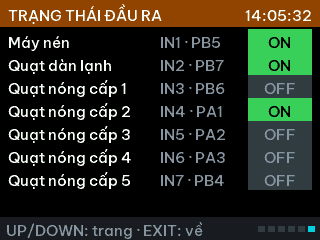
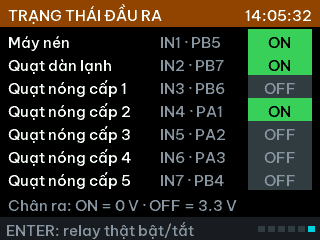
feat(sim): giả lập mặc định đóng relay thật để đo điện áp chân ra
- "Relay thật" mặc định Bật: chân GPIO + relay chạy theo bộ điều khiển khi giả lập
- trang 6: ENTER đảo Relay thật khi đang giả lập (UI_CMD_SIM_RELAY)
- trang 6 ghi chú mức chân ra: ON = 0 V, OFF = 3.3 V (relay kích mức thấp)

Claude-Session: https://claude.ai/code/session_01Q4RsSUfkgXaCjxshzdnzJP

Changed region(s): [[0.0, 0.9333, 0.6562, 1.0], [0.0312, 0.8167, 0.4375, 0.9042], [0.4688, 0.8167, 0.75, 0.875]]

diff --git a/App/app.c b/App/app.c
@@ -41,7 +41,8 @@ static bool           s_prev_finished;
  *  - Chỉnh tay: người dùng đặt nhiệt độ/độ ẩm trong danh sách GIẢ LẬP
  *  - Tua nhanh: đồng hồ của bộ điều khiển chạy x1/x10/x60/x300 (quạt 5 cấp vẫn theo thời gian thật)
  *  - Tạo lỗi : mất cảm biến nhiệt / ẩm, áp suất cao – để thử bảo vệ
- *  - Relay thật: mặc định TẮT – relay không đóng khi giả lập, màn hình vẫn hiện trạng thái */
+ *  - Relay thật: mặc định BẬT – chân ra + relay đóng theo bộ điều khiển để đo điện áp thực tế;
+ *                 chuyển Tắt (danh sách GIẢ LẬP hoặc ENTER ở trang 6) để chỉ hiện trên màn hình */
 enum { SIM_OFF = 0, SIM_MODEL, SIM_MANUAL };
 enum { SIMF_NONE = 0, SIMF_TEMP, SIMF_HUM, SIMF_PRESS };
 static const char *const s_sim_mode_ch[]  = { "Tắt", "Mô hình", "Chỉnh tay" };
@@ -55,7 +56,7 @@ static struct {
     sim_plant_t plant;
     float       man_temp, man_hum;
     char        text[40];
-} s_sim;
+} s_sim = { .relay = 1 };
 
 static uint32_t s_vclock, s_last_tick;     /* đồng hồ của bộ điều khiển (có thể tua nhanh) */
 
@@ -181,6 +182,13 @@ static bool on_ui_cmd(const ui_cmd_t *cmd)
     case UI_CMD_RESET_FAULT:
         DryerCtrl_Command(&s_ctrl, DRYER_CMD_RESET_FAULT);
         UI_Message("Đã xoá lỗi");
+        return true;
+
+    case UI_CMD_SIM_RELAY:
+        if (s_sim.mode == SIM_OFF) return false;
+        s_sim.relay = !s_sim.relay;
+        UI_Message(s_sim.relay ? "Giả lập: relay thật BẬT" : "Giả lập: relay thật TẮT");
+        Log_Printf("SIM relay=%u", (unsigned)s_sim.relay);
         return true;
 
     case UI_CMD_CLEAR_HISTORY:

diff --git a/App/ui/ui_page_outputs.c b/App/ui/ui_page_outputs.c
@@ -7,6 +7,7 @@
  *    out_cmd   – bộ điều khiển đang yêu cầu BẬT
  *    out_relay – relay thật đang đóng
  *  Giả lập với "Relay thật" = Tắt: yêu cầu BẬT nhưng relay không đóng → hiện "ON*".
+ *  Khi giả lập: ENTER đảo "Relay thật" (đo điện áp chân ra thực tế).
  */
 #include "ui_internal.h"
 
@@ -47,18 +48,24 @@ static void draw_values(bool full)
             w_badge(X_PILL, y, W_PILL, rly ? "ON" : "OFF", rly);
         }
     }
-    w_text(X_NAME, Y_NOTE, TFT_WIDTH - 16,
-           mismatch ? "* giả lập: relay không đóng" : "", UC_WARN, UC_BG, TEXT_LEFT);
+    if (mismatch) w_text(X_NAME, Y_NOTE, TFT_WIDTH - 16, "* giả lập: relay không đóng", UC_WARN, UC_BG, TEXT_LEFT);
+    else          w_text(X_NAME, Y_NOTE, TFT_WIDTH - 16, "Chân ra: ON = 0 V · OFF = 3.3 V", UC_LABEL, UC_BG, TEXT_LEFT);
 }
 
 static void key(ui_key_t k, ui_press_t p)
 {
+    if (k == UI_KEY_ENTER && p == UI_PRESS_SHORT && g_ui.sim_on) {
+        ui_cmd_t c = { .type = UI_CMD_SIM_RELAY };
+        ui_send(&c);
+        g_ui.dirty = true;
+        return;
+    }
     ui_page_nav(k, p);
 }
 
 static const char *hint(void)
 {
-    return "UP/DOWN: trang · EXIT: về";
+    return g_ui.sim_on ? "ENTER: relay thật bật/tắt" : "UP/DOWN: trang · EXIT: về";
 }
 
 const ui_screen_t scr_outputs = {

diff --git a/tools/host_check/ui_sim/sim_main.c b/tools/host_check/ui_sim/sim_main.c
@@ -155,6 +155,8 @@ int main(int argc, char **argv)
     v.out_cmd = 0x0B; v.out_relay = 0x0B;                       /* máy nén, quạt lạnh, cấp 2 */
     tick(3); shot("13_outputs");
     v.out_relay = 0;  tick(3); shot("13b_outputs_sim");         /* giả lập, relay không đóng */
+    key(UI_KEY_ENTER, UI_PRESS_SHORT);
+    EXPECT(last_cmd.type == UI_CMD_SIM_RELAY, "Trang 6: ENTER dao Relay that khi gia lap");
     v.out_cmd = v.out_relay = 0;
     key(UI_KEY_DOWN, UI_PRESS_SHORT);                           /* vòng về trang 1 */
 

diff --git a/App/ui/ui.h b/App/ui/ui.h
@@ -49,6 +49,7 @@ typedef enum {
     UI_CMD_SET_DRY_TIME,       /* u.minutes */
     UI_CMD_SET_CLOCK,          /* u.clock */
     UI_CMD_SAVE_SETTINGS,      /* sau khi sửa danh sách thông số */
+    UI_CMD_SIM_RELAY,          /* giả lập: đảo "Relay thật" bật/tắt */
 } ui_cmd_type_t;
 
 typedef struct {

diff --git a/docs/UI.md b/docs/UI.md
@@ -26,7 +26,7 @@ Giao diện dùng font **Be Vietnam Pro** (SIL Open Font License 1.1) chuyển t
 | 3 Thời gian sấy | HH:MM (00:00 = không giới hạn). **Chỉ dùng cho chế độ Tự động**, Thủ công hiện "không áp dụng" | ENTER: chỉnh từng chữ số |
 | 4 Quạt dàn nóng | Chế độ Tự động / Thủ công, bảng 5 giai đoạn + cấp quạt, nhiệt độ bảo vệ, thời gian chờ máy nén | ENTER: danh sách cài đặt |
 | 5 Lịch sử lỗi | Lỗi đang có + 6 lỗi gần nhất (ngày giờ, tên lỗi) | ENTER: xoá lỗi đang có · Giữ EXIT 3 s: xoá lịch sử |
-| 6 Trạng thái đầu ra | 7 relay (máy nén, quạt dàn lạnh, quạt nóng cấp 1–5) kèm chân IN/GPIO, ô **ON** xanh / **OFF** xám. Giả lập với *Relay thật = Tắt*: ô vàng **ON\*** = bộ điều khiển yêu cầu bật nhưng relay không đóng | – |
+| 6 Trạng thái đầu ra | 7 relay (máy nén, quạt dàn lạnh, quạt nóng cấp 1–5) kèm chân IN/GPIO, ô **ON** xanh / **OFF** xám. Dòng dưới: chân ra **ON = 0 V, OFF = 3.3 V** (module relay kích mức thấp). Giả lập với *Relay thật = Tắt*: ô vàng **ON\*** = bộ điều khiển yêu cầu bật nhưng relay không đóng | Khi giả lập: ENTER đảo *Relay thật* bật/tắt |
 
 Ở mọi trang: **giữ ENTER 3 s → menu chế độ sấy**, EXIT → về trang chính.
 Header luôn hiện đồng hồ HH:MM:SS; footer hiện gợi ý phím, thông báo và số trang (6 ô vuông).
@@ -109,7 +109,7 @@ trang chính hiện dòng `GIẢ LẬP · Mô hình x60`. Giả lập chỉ nằ
 | Tua nhanh | x1 / x10 / x60 / x300 | Đồng hồ bộ điều khiển chạy nhanh hơn (GĐ3 120 phút ở x300 còn 24 giây). Quạt 5 cấp vẫn nghỉ 1 s thật khi đổi cấp |
 | Nhiệt độ, Độ ẩm | °C, %RH | Chỉnh tay: giá trị đưa vào bộ điều khiển. Mô hình: đặt lại điểm xuất phát |
 | Tạo lỗi | Không / Mất CB nhiệt / Mất CB ẩm / Áp suất cao | Thử các bảo vệ và lịch sử lỗi |
-| Relay thật | **Tắt** / Bật | Mặc định relay KHÔNG đóng khi giả lập (an toàn); màn hình vẫn hiện MN / QN / QL |
+| Relay thật | Tắt / **Bật** | Mặc định chân ra + relay chạy theo bộ điều khiển khi giả lập → đo được điện áp thực tế. **Tháo dây máy nén / quạt (hoặc nguồn tải) nếu không muốn thiết bị chạy thật.** Tắt = chỉ hiện trên màn hình. Đổi nhanh bằng ENTER ở trang 6 |
 
 Cách thử từng giai đoạn:
 1. Trang 4 chọn chế độ (Tự động / Thủ công), đặt cấp quạt, thời gian GĐ3/GĐ4.
